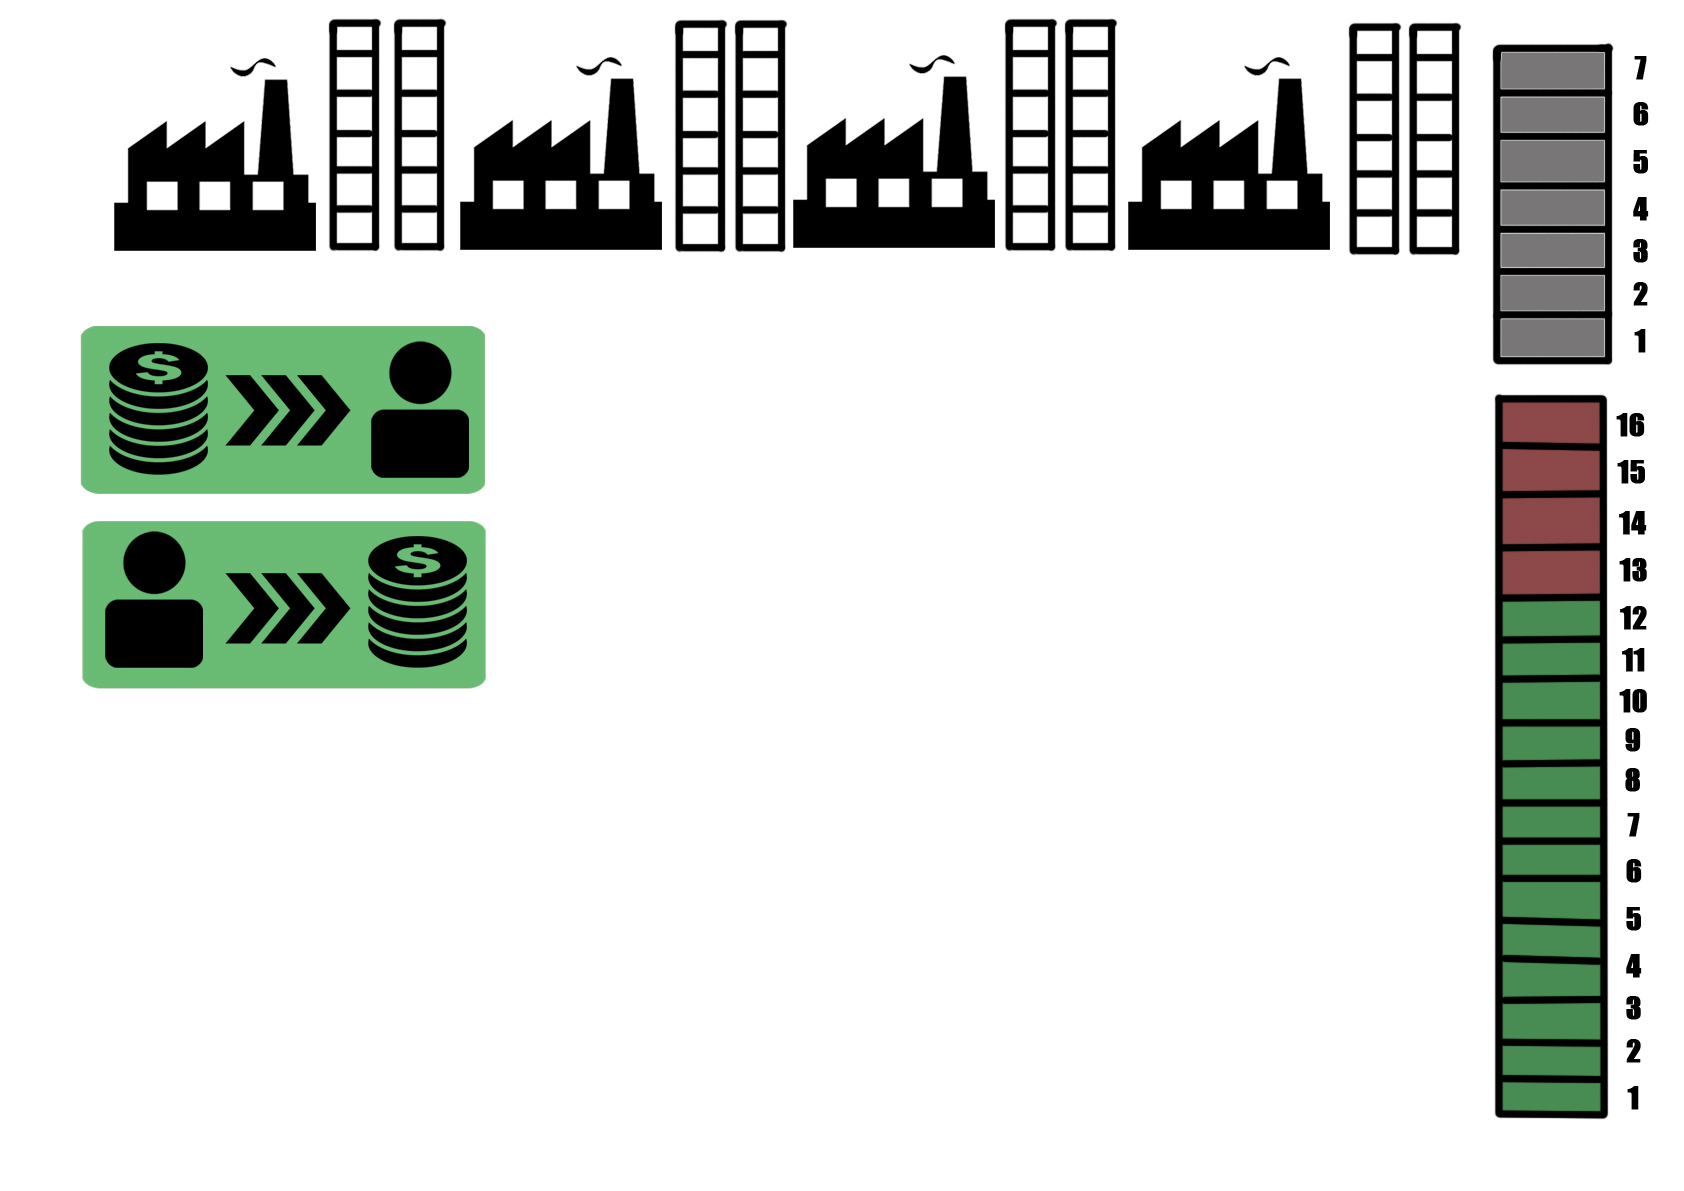
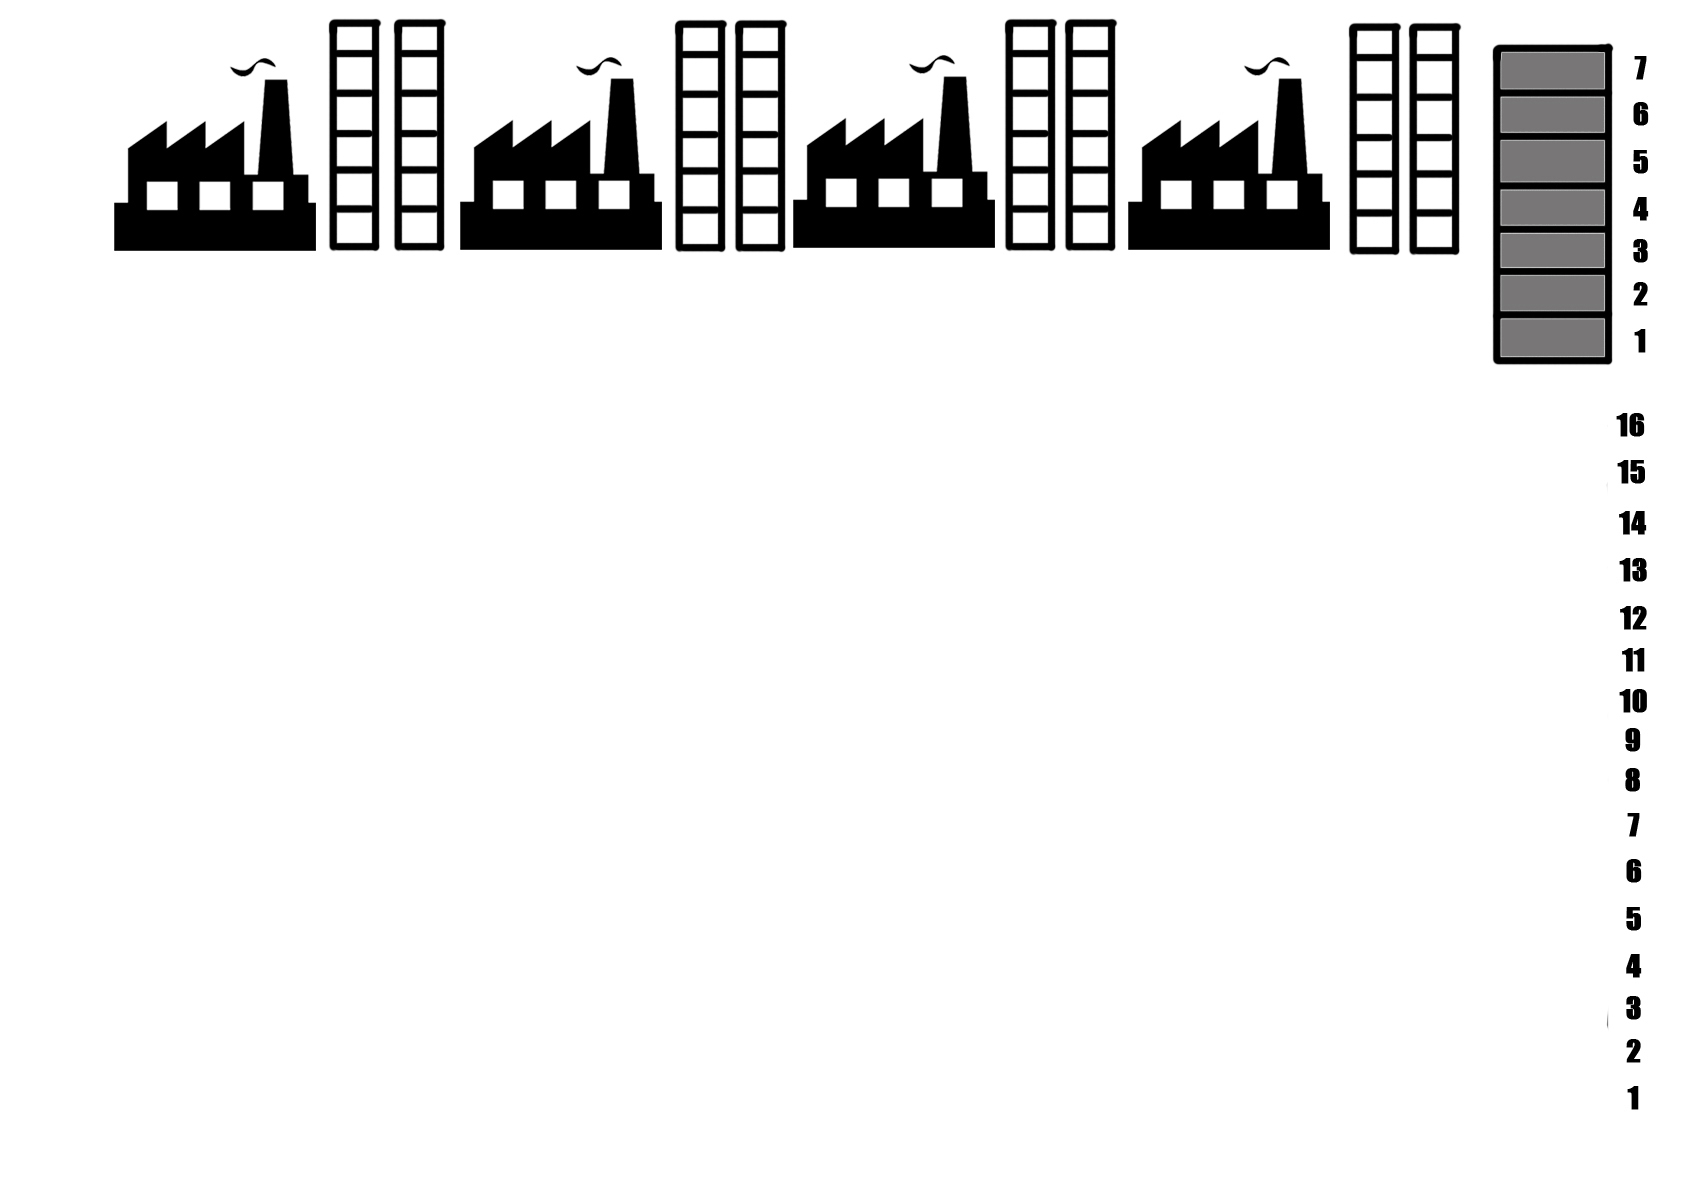
Se ven lo juegadores

Changed region(s): [[0.0309, 0.2485, 0.3088, 0.5903], [0.8646, 0.3107, 0.9572, 0.9631]]

diff --git a/core/src/com/mygdx/game/Controllers/WorldRenderer.java b/core/src/com/mygdx/game/Controllers/WorldRenderer.java
@@ -8,6 +8,7 @@ import com.badlogic.gdx.graphics.g2d.SpriteBatch;
 import com.mygdx.game.Assets;
 import com.mygdx.game.Constants;
 import com.mygdx.game.GameLogic.GameManager;
+import com.mygdx.game.GameLogic.Player;
 import com.mygdx.game.go.Background;
 import com.mygdx.game.go.BasicAction;
 import com.mygdx.game.go.GameObject;
@@ -26,7 +27,7 @@ public class WorldRenderer {
     private HUD hud;
     private GameManager GM =GameManager.getInstance();
 
-
+    private Color[] colors = new Color[4];
 
     public WorldRenderer(WorldController wc){
         this.controller = wc;
@@ -35,6 +36,11 @@ public class WorldRenderer {
         hudCamera = controller.hudCamera;
 
         hud = GM.hud;
+
+        colors[0] = new Color(1, 1, 1, 1);
+        colors[1] = new Color(1, 0, 0, 1);
+        colors[2] = new Color(0, 1, 0, 1);
+        colors[3] = new Color(0, 0, 1, 1);
 
         init();
     }
@@ -52,7 +58,6 @@ public class WorldRenderer {
 
         ArrayList<GameObject> gameObjects = GM.cardsOnBoard;
         for(GameObject b : GM.basicActions){
-
             gameObjects.add(b);
         }
 
@@ -67,6 +72,8 @@ public class WorldRenderer {
             go.render(batch);
         }
         batch.setColor(Color.WHITE);
+        renderPollutionBar(batch);
+        renderPlayers(batch);
         batch.end();
 
         //render HUD
@@ -98,5 +105,38 @@ public class WorldRenderer {
     public void dispose(){
 
         batch.dispose();
+    }
+
+
+    private void renderPollutionBar(SpriteBatch batch){
+        int totalBars = 16;
+        int greenBars = 12;
+        int x = (int)(WorldController.camera.viewportWidth/2.55f);
+        int y = (int) (-WorldController.camera.viewportHeight/2.3f);
+        int w = (int) WorldController.camera.viewportHeight/10;
+        int h = (int) WorldController.camera.viewportHeight/35;
+        int offset = (int) WorldController.camera.viewportHeight/100;
+        batch.draw(Assets.getInstance().black, x-offset, y-offset, w+offset*2, h*totalBars+offset*(totalBars+1));
+        for(int i=0;i<totalBars;i++){
+            if(i<12){
+                batch.draw(Assets.getInstance().green, x, y+h*i+offset*i, w, h);
+            }else{
+                batch.draw(Assets.getInstance().red, x, y+h*i+offset*i, w, h);
+            }
+        }
+    }
+
+    private void renderPlayers(SpriteBatch batch){
+
+        int x = (int)(WorldController.camera.viewportWidth/2.55f);
+        int y = (int) (-WorldController.camera.viewportHeight/2.3f);
+        int w = (int) WorldController.camera.viewportHeight/50;
+        int offsetX = w+(int) WorldController.camera.viewportHeight/150;
+        int offsetY = (int) WorldController.camera.viewportHeight/35+(int) WorldController.camera.viewportHeight/100;
+        for(int i=0;i<GM.players; i++){
+            batch.setColor(colors[i]);
+            batch.draw(Assets.getInstance().box, x+offsetX*i, y+offsetY*GM.playerList.get(i).pollution, w, w);
+        }
+        batch.setColor(Color.WHITE);
     }
 }

diff --git a/core/src/com/mygdx/game/Assets.java b/core/src/com/mygdx/game/Assets.java
@@ -24,6 +24,8 @@ public class Assets {
     public Texture basicAction2;
     public Texture black;
     public Texture white;
+    public Texture green;
+    public Texture red;
     public Texture cloud;
     public Texture backgroundGame;
 
@@ -43,6 +45,8 @@ public class Assets {
         basicAction2 = new Texture(Gdx.files.internal("BasicAction2.png"));
         black = new Texture(Gdx.files.internal("black.png"));
         white = createRect(Color.WHITE);
+        green = createRect(new Color(0x01/255f, 0xb0/255f, 0x50/255f, 1));
+        red = createRect(new Color(0xc0/255f, 0x50/255f, 0x4d/255f, 1));
         cloud = new Texture(Gdx.files.internal("cloud.png"));
         backgroundGame = new Texture(Gdx.files.internal("Tablero.jpg"));
         button = createButtonTexture();

diff --git a/core/src/com/mygdx/game/hud/HUD.java b/core/src/com/mygdx/game/hud/HUD.java
@@ -51,4 +51,5 @@ public class HUD {
         }
         return false;
     }
+
 }
